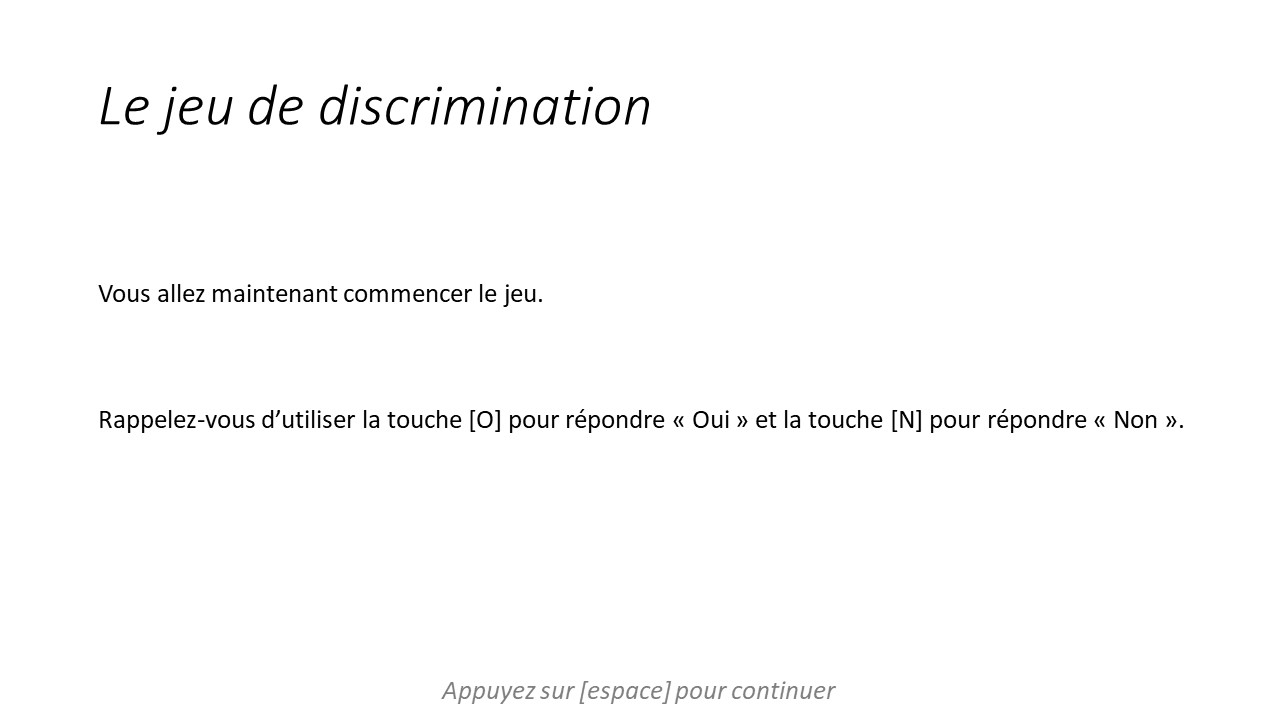
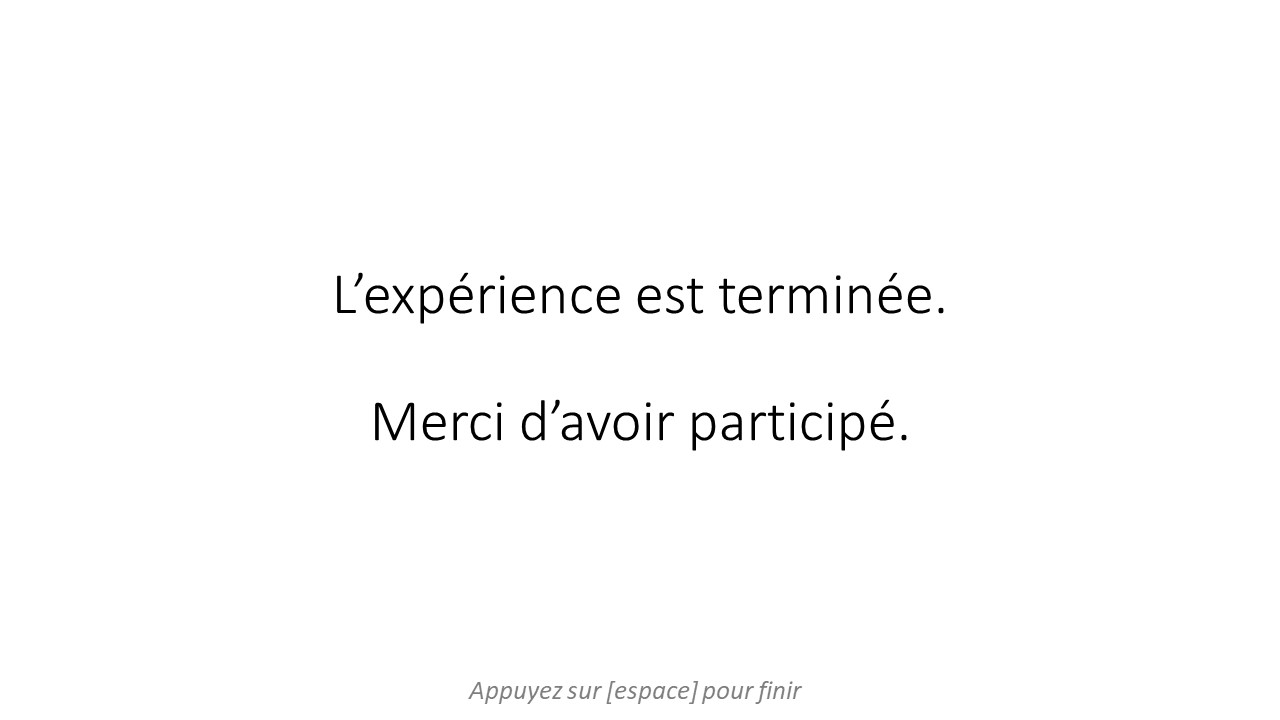
added all conditions

diff --git a/Emotion_Regulation_JS/rsvp.js b/Emotion_Regulation_JS/rsvp.js
@@ -1,4 +1,4 @@
-function rsvp()
+function rsvp(nbBlocks, nbTrials, training)
 {
       /////////////////////////////
       ////// INITIALISATION //////
@@ -6,87 +6,48 @@ function rsvp()
 
       var timelineTask = [];
 
-      // Creation of Condition Matrix
-      // Worth looking at the info on jsPsych.randomization.factorial
+      // Creation of Condition Matrix (Worth looking at the info on jsPsych.randomization.factorial)
 
-
-      [conditionRwd, condition] = createCondiMatrix(nbBlocksExp, nbTrialsExp);
+      [conditionRwd, condition] = createCondiMatrix(nbBlocks, nbTrials, training);
 
       console.log(conditionRwd)
       console.log(condition)
-
-      function randi(min, max) { // min and max included (acts like randi of Matlab)
-        return Math.floor(Math.random() * (max - min + 1) + min);
-      }
-
-      // var factors = {
-      //       condiEmo: ['DC', 'CC', 'BC'],
-      //       condiGender: ['Hom', 'Fem'],
-      //       condiRwd: ['smallRwd', 'largeRwd']
-      // };
-      //
-      // var full_design = jsPsych.randomization.factorial(factors, 1);
-      // console.log(full_design)
-
-      var DC_largeRwd = {
-            type:'html-keyboard-response',
-            stimulus: '<p> DC_largeRwd.</p>'+
-            '<p> <strong> Press spacebar when you are ready to start!</strong></p>',
-            choices: 32,
-            data: {
-                  test_part: 'DC_largeRwd',
-                  blocknumber: 0,
-            }
-      };
-
-      var startBreak = {
-            type:'html-keyboard-response',
-            stimulus: '<p> Now you are ready to start the experiment.</p>'+
-            '<p> The mini-game comprises '+nbTrialsExp+' trials. </p>' +
-            '<p> In total there are '+nbBlocksExp+' parts and you will be offered to take breaks in-between parts. </p>' +
-            '<p> There is no time limit on your responses or on your ratings.</p>'+
-            '<p> <strong> Press spacebar when you are ready to start!</strong></p>',
-            choices: [32],
-            data: {
-                  test_part: 'startBreak',
-                  blockNb: 0,
-                  trialNb: 0,
-            }
-      };
 
       /////////////////////////////////
       ////// Start of the Block //////
       ////////////////////////////////
 
-      for (var block = 0; block < nbBlocksExp; block++)  {
-
-        var blockBreak = {
-          type:'html-keyboard-response',
-          stimulus:'<p> You can now pause for a break. You have completed '+block+' out of '+nbBlocksExp+' parts. </p>' +
-          '<p> <strong> Press spacebar when you are ready to continue!</strong></p>',
-          choices: [32],
-          data: {
-            test_part: 'blockbreak',
-            blockNb: block,
-            trialNb: 0,
-          }
-        };
-
-        //PUSH BREAK SCREENS BETWEEN EACH BLOCK
-        if (block == 0){
-            timelineTask.push(startBreak);
-        }
-        else {
-            timelineTask.push(blockBreak);
-        }
+      for (var block = 0; block < nbBlocks; block++)  {
 
             // Put here the parameters that need to be randomised every block
+
+            var instrCondiImg = "";
+            if (conditionRwd[block][1] = 1 ){
+              if (conditionRwd[block][0] = 1) {instrCondiImg =  instrImg[3]}
+              else if (conditionRwd[block][0] = 2) {instrCondiImg = instrImg[4]}
+            } //DC
+            else if (conditionRwd[block][1] = 2){
+              if (conditionRwd[block][0] = 1) {instrCondiImg =  instrImg[5]}
+              else if (conditionRwd[block][0] = 2) {instrCondiImg = instrImg[6]}
+            }; // BC
+
+            var instrCondi = {
+                  type: "image-keyboard-response",
+                  stimulus: instrCondiImg,
+                  stimulus_height: screen.height/2, // Size of the instruction depending on the size of the participants' screen
+                  choices: [32],
+                  data: {
+                        test_part: "instrCondi",
+                  },
+            };
+
+            if (training == 0) {timelineTask.push(instrCondi)};
 
             /////////////////////////////////
             ////// Start of the trial //////
             ////////////////////////////////
 
-            for(var trial = 0; trial < nbTrialsExp; trial++){
+            for(var trial = 0; trial < nbTrials; trial++){
 
               // Position of the Distractor and Target
               posCritDist = randi(4,8); // random number between 4 and 8
@@ -133,6 +94,7 @@ function rsvp()
                     choices: jsPsych.NO_KEYS,
                     condition: conditionRwd[block][1], // 1 = DC, 2 = BC
                     reward: conditionRwd[block][0], // 1 = small rwd, 2 = large rwd
+                    training: training,
                     trial_duration: fixation_time,
                     data:{
                           test_part:'fixation',
@@ -157,6 +119,7 @@ function rsvp()
                   choices: jsPsych.NO_KEYS,
                   condition: conditionRwd[block][1], // 1 = DC, 2 = BC
                   reward: conditionRwd[block][0], // 1 = small rwd, 2 = large rwd
+                  training: training,
                   trial_duration: imageDuration,
                   response_ends_trial: false,
                   data: {
@@ -174,7 +137,8 @@ function rsvp()
                 '<p> <strong> Oui [O] / Non [N] </strong></p>',
                 condition: conditionRwd[block][1], // 1 = DC, 2 = BC
                 reward: conditionRwd[block][0], // 1 = small rwd, 2 = large rwd
-                choices: [37, 39], // left and right arrows
+                training: training,
+                choices: [79,78], //[37, 39], left and right arrows
                 response_ends_trial: true, //If true, trial will end when subject makes a response.
                 data: {
                   test_part: 'rsvpAnswFem',
@@ -189,7 +153,8 @@ function rsvp()
                 '<p> <strong> Oui [O] / Non [N] </strong></p>',
                 condition: conditionRwd[block][1], // 1 = DC, 2 = BC
                 reward: conditionRwd[block][0], // 1 = small rwd, 2 = large rwd
-                choices: [37, 39],
+                training: training,
+                choices: [79,78],
                 response_ends_trial: true,
                 data: {
                   test_part: 'rsvpAnswHom',

diff --git a/Emotion_Regulation_JS/experiment_RSVP.html b/Emotion_Regulation_JS/experiment_RSVP.html
@@ -34,18 +34,17 @@
 // --------------------------------- PARAMETERS --------------------------------//
 
     // Parameters (put here all your parameters, they will be global)
-    var nbBlocksPrac   = 1;
-    var nbTrialsPrac   = 1;
-    var nbBlocksExp    = 8;
-    var nbTrialsExp    = 6;
+    var nbBlocksPrac      = 2;
+    var nbTrialsPrac      = 6;
+    var nbBlocksExp       = 8;
+    var nbTrialsExp       = 6;
 
-    var setSize         = 15;
-    var imageDuration   = 70; // in ms, so 0.07 sec
-    var fixation_time   = 500; // in ms, so 1 sec
-    var timeBetweenTrials = 2000;
+    var setSize           = 15;
+    var imageDuration     = 70; // in ms, so 0.07 sec
+    var fixation_time     = 500; // in ms, so 1 sec
 
-    var nbInstr         = 14; // how many Instr Slides you have
-    var debug           = false; // if true, skips fullscreen and info
+    var nbInstr           = 12; // how many Instr Slides you have
+    var debug             = false; // if true, skips fullscreen and info
 
 // --------------------------------- INITIALISATION  ---------------------------//
 
@@ -68,13 +67,9 @@
           // Removes the cursor
           let cursornone = document.getElementById("cursornone").innerHTML;
 
-          //Set up the canvas and get the window height and width.
-          var canvas = document.getElementById("myCanvas");
-          var context = canvas.getContext("2d");
-          //context.canvas.width  = 800;
-          //context.canvas.height =  540;
-          var centerWidth = canvas.width / 2.0;
-          var centerHeight = canvas.height / 2.0;
+          function randi(min, max) { // min and max included (acts like randi of Matlab)
+                return Math.floor(Math.random() * (max - min + 1) + min);
+          }
 
           // Create "Variable/function" that makes sure you remain in FullScreen
           var firstFullscreen =	{
@@ -85,8 +80,6 @@
                 check_fullscreen: true,
                 data: {
                       test_part: 'firstFullscreen',
-                      // Here put all the names of the variables you want to save with a value like "888" example:
-                      // blocknumber: 888,
                 },
           };
 
@@ -106,7 +99,6 @@
                 questions: [{prompt: "Worker ID?", rows: 3, columns: 40}],
                 data: {
                       test_part: 'subdetails',
-                      // Here put all the names of the variables you want to save
                 },
                 on_start: function(){
                       var res = cursornone.replace("none", "default");
@@ -124,7 +116,6 @@
                 questions: [{prompt: "Gender (F/M)?", rows: 3, columns: 40}, {prompt: "Age?", rows: 3, columns: 40}],
                 data: {
                       test_part: 'subdetails',
-                      // Here put all the names of the variables you want to save
                 },
                 on_start: function(){
                       var res = cursornone.replace("none", "default");
@@ -139,7 +130,7 @@
 // --------------------------------- PRE-LOAD ANY MEDIA  -----------------------//
             // Example
             var instrImg = [];
-            for(var t=1;t < nbInstr+1;t++){
+            for(var t=1;t <= nbInstr;t++){
                   instrImg[t-1] = 'instructions/instructionsDiapo/Slide'+t+'.jpg'; // Pre-load all the jpg files in this folder
             };
 
@@ -181,6 +172,10 @@
 
             var exp_timeline = [];
 
+            var firstInstr    = instr([0,1,7,8,2,9]);
+            var endPract      = instr([10]);
+            var endExp        = instr([11]);
+
             if(debug == false){
                   jsPsych.pluginAPI.preloadImages([instrImg, imgWFF, imgWFN, imgWMF, imgWMN, imgCondi, imgRwd],
                   function(){ startExperiment();},
@@ -188,22 +183,31 @@
                   exp_timeline.push(firstFullscreen);
                   exp_timeline.push(subdetails);
                   exp_timeline.push(subdetails2);
+
+                  for(var i = 0; i < firstInstr.length; i++){
+                         exp_timeline.push(firstInstr[i]);
+                  };
             }
+            var practice      = rsvp(nbBlocksPrac, nbTrialsPrac, 1);
+            for(var i = 0; i < practice.length; i++){
+                  exp_timeline.push(practice[i]);
+            };
 
-            var firstInstr    = instr();
-            var task          = rsvp();
-            //var practice    = practrsvp(numPrac);
+            for(var i = 0; i < endPract.length; i++){
+                   exp_timeline.push(endPract[i]);
+            };
 
-            // for(var i = 0; i < firstInstr.length; i++){
-            //        exp_timeline.push(firstInstr[i]);
-            // };
-
+            var task          = rsvp(nbBlocksExp, nbTrialsExp, 0);
             for(var i = 0; i < task.length; i++){
                   exp_timeline.push(task[i]);
             };
 
+            for(var i = 0; i < endPract.length; i++){
+                   exp_timeline.push(endExp[i]);
+            };
+
             // Execute the experiment
-            //function startExperiment(){
+            function startExperiment(){
               jsPsych.init({
                 //preload_images: [instrImg, imgWFF,imgWFN, imgWMF,imgWMN],
                 timeline: exp_timeline,
@@ -222,9 +226,7 @@
                   //document.write('<p><br></br><br></br><center>Thank you for participating! <br></br> Your data code is <strong>'+subject_id+'</strong>.<br></center><p>')
                 },
               });
-            //}
-
-
+            }
 
     } // End of the experiment (end of checking browser)
 </script>

diff --git a/Emotion_Regulation_JS/createCondiMatrix.js b/Emotion_Regulation_JS/createCondiMatrix.js
@@ -1,11 +1,16 @@
-function createCondiMatrix(nbBlocks, nbTrials)
+function createCondiMatrix(nbBlocks, nbTrials, training)
 {
-      let conditionRwd = [[1,1],[1,2],[2,1],[2,2]];
-      conditionRwd = jsPsych.randomization.repeat(conditionRwd, nbBlocks/4);
+      if (training == 1){
+          var conditionRwd = [[1,1],[2,2]];
+      } else if (training == 0){
+          var conditionRwd = [[1,1],[1,2],[2,1],[2,2]];
+          conditionRwd = jsPsych.randomization.repeat(conditionRwd, nbBlocks/4);
+        }
+
       conditionRwd = jsPsych.randomization.shuffleNoRepeats(conditionRwd);
 
-      let condition = []; let condiDC = []; let condiCC = []; let condiBC = [];
-      for (let i = 0; i < nbBlocks; i++) {
+      var condition = []; var condiDC = []; var condiCC = []; var condiBC = [];
+      for (var i = 0; i < nbBlocks; i++) {
 
             condiCC = Array(nbTrials/6).fill([3,4]).flat(); // acts like repmat in Matlab (but less good haha)
             condiDC = condiCC.concat(Array(nbTrials/3).fill([1,2]).flat());

diff --git a/Emotion_Regulation_JS/jsPsych-master/plugins_JS/html-keyboard-response-emo.js b/Emotion_Regulation_JS/jsPsych-master/plugins_JS/html-keyboard-response-emo.js
@@ -66,6 +66,12 @@ jsPsych.plugins["html-keyboard-response"] = (function() {
         default: null,
         description: 'What are the incentives of the trial (smallRwd or largeRwd).'
       },
+      training: {
+        type: jsPsych.plugins.parameterType.INT,
+        pretty_name: 'Training',
+        default: null,
+        description: 'Is the current trial part of the training'
+      },
 
     }
   }
@@ -97,7 +103,14 @@ jsPsych.plugins["html-keyboard-response"] = (function() {
     }
 
     // draw
-    display_element.innerHTML = [new_html + condi + rwd ];
+
+    if (trial.training == 1){
+      display_element.innerHTML = [new_html + condi];
+    } else if (trial.training == 0 && trial.condition !== null && trial.reward !== null){
+      display_element.innerHTML = [new_html + condi + rwd];
+    } else if (trial.condition == null && trial.reward == null){
+      display_element.innerHTML = [new_html];
+    }
 
     // store response
     var response = {

diff --git a/Emotion_Regulation_JS/jsPsych-master/plugins_JS/image-keyboard-response-emo.js b/Emotion_Regulation_JS/jsPsych-master/plugins_JS/image-keyboard-response-emo.js
@@ -86,6 +86,12 @@ jsPsych.plugins["image-keyboard-response"] = (function() {
         default: null,
         description: 'What are the incentives of the trial (smallRwd or largeRwd).'
       },
+      training: {
+        type: jsPsych.plugins.parameterType.INT,
+        pretty_name: 'Training',
+        default: null,
+        description: 'Is the current trial part of the training'
+      },
     }
   }
 
@@ -130,8 +136,13 @@ jsPsych.plugins["image-keyboard-response"] = (function() {
     }
 
 
-    // render
-    display_element.innerHTML = [html + condi + rwd];
+    if (trial.training == 1){
+      display_element.innerHTML = [html + condi];
+    } else if (trial.training == 0 && trial.condition !== null && trial.reward !== null){
+      display_element.innerHTML = [html + condi + rwd];
+    } else if (trial.condition == null && trial.reward == null){
+      display_element.innerHTML = [html];
+    }
 
     // store response
     var response = {

diff --git a/Emotion_Regulation_JS/instr.js b/Emotion_Regulation_JS/instr.js
@@ -1,11 +1,11 @@
-function instr()
+function instr(instrArray)
 {
       let timeline = [];
 
-      for(var i = 0; i < instrImg.length; i++){
+      for(x in instrArray){
             var instr = {
                   type: "image-keyboard-response",
-                  stimulus: instrImg[i],
+                  stimulus: instrImg[instrArray[x]],
                   stimulus_height: screen.height/2, // Size of the instruction depending on the size of the participants' screen
                   choices: [32], // 32, spacebar //[37,39], left and right arrows
                   data: {
